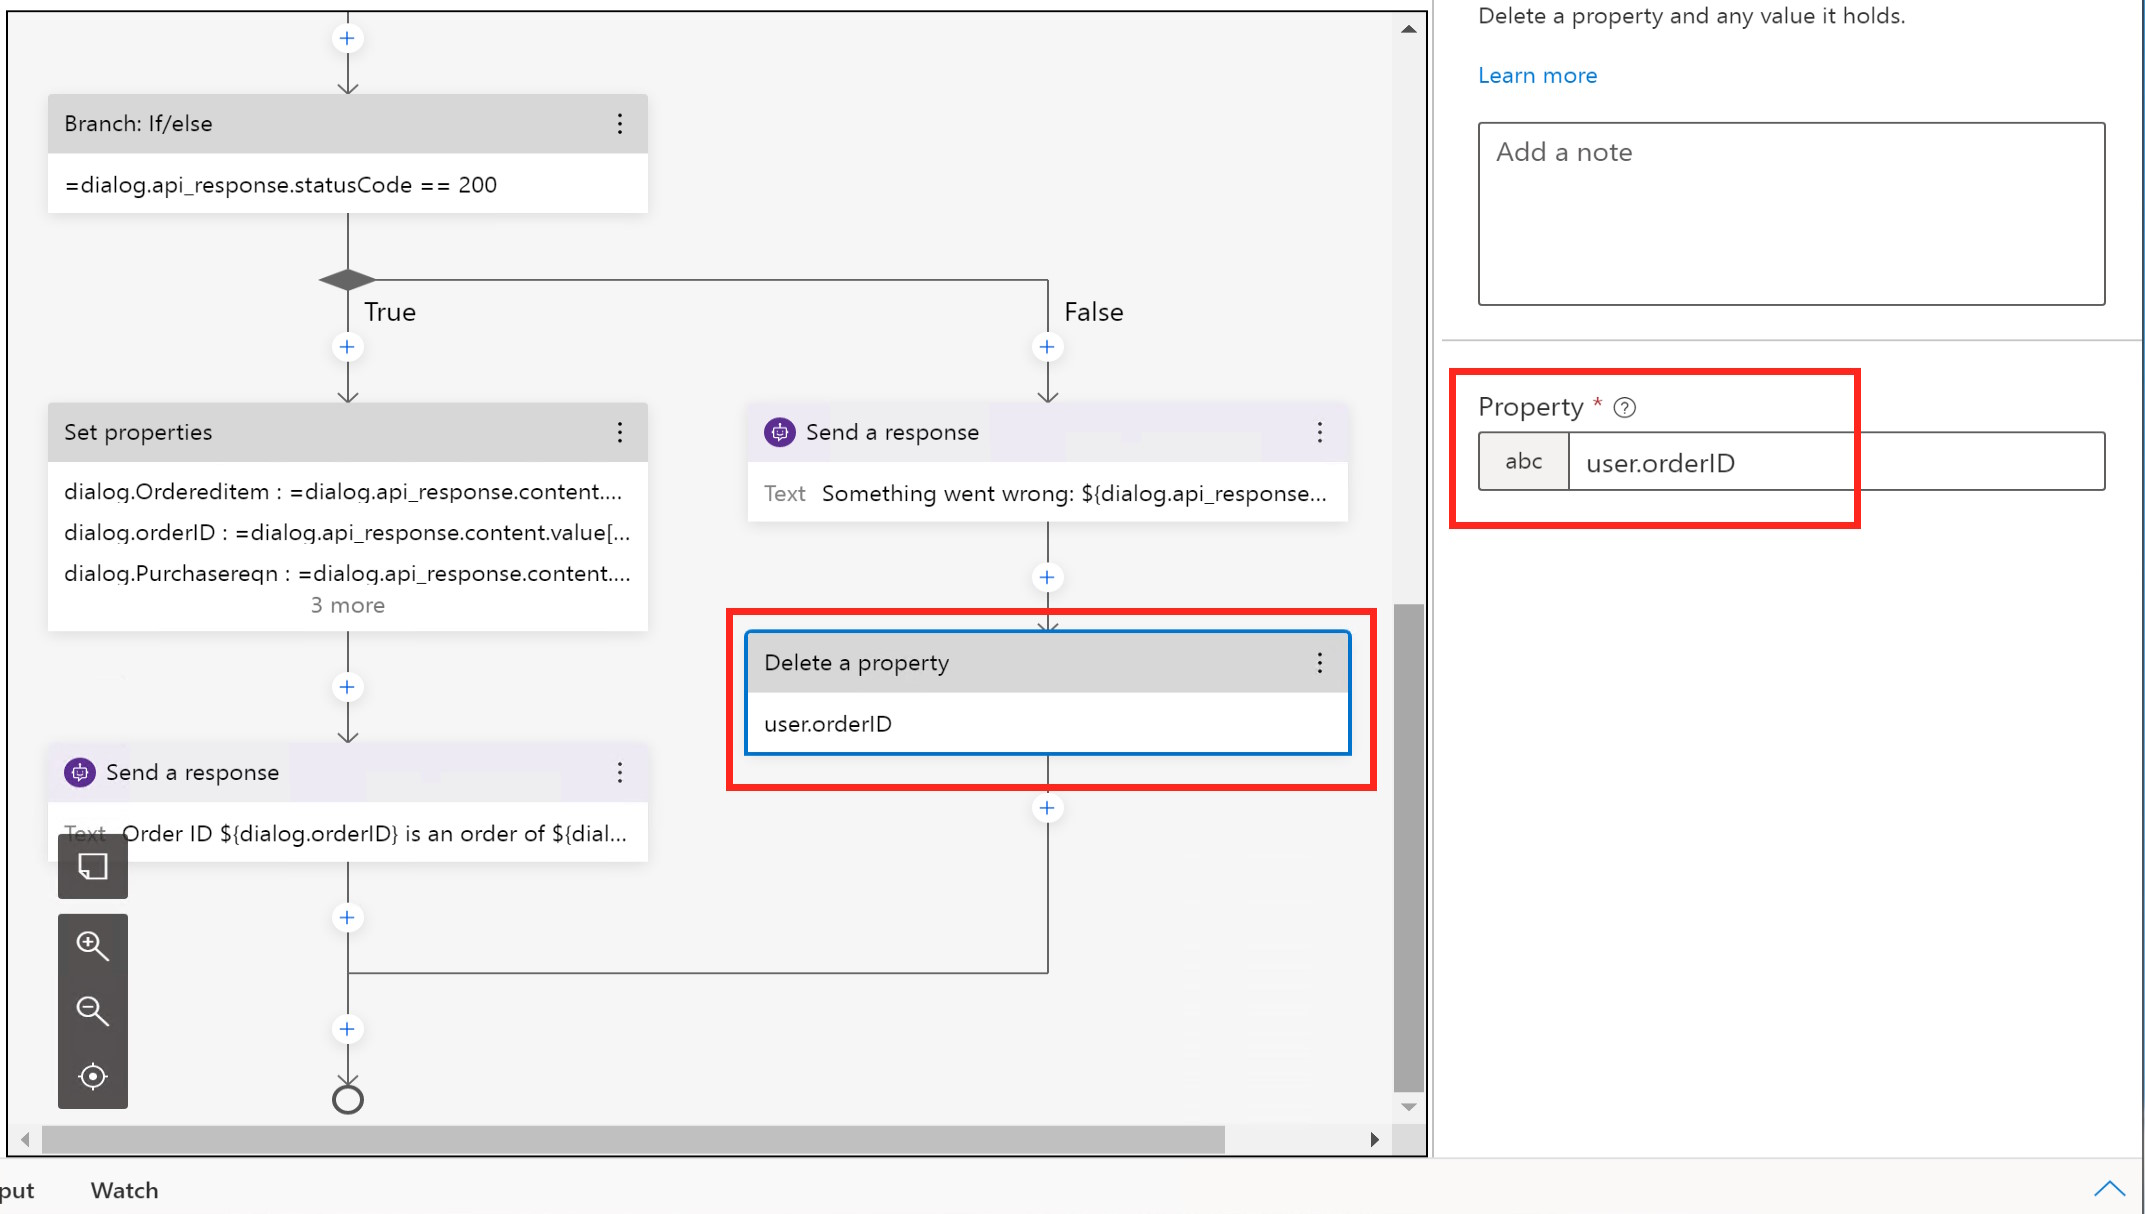
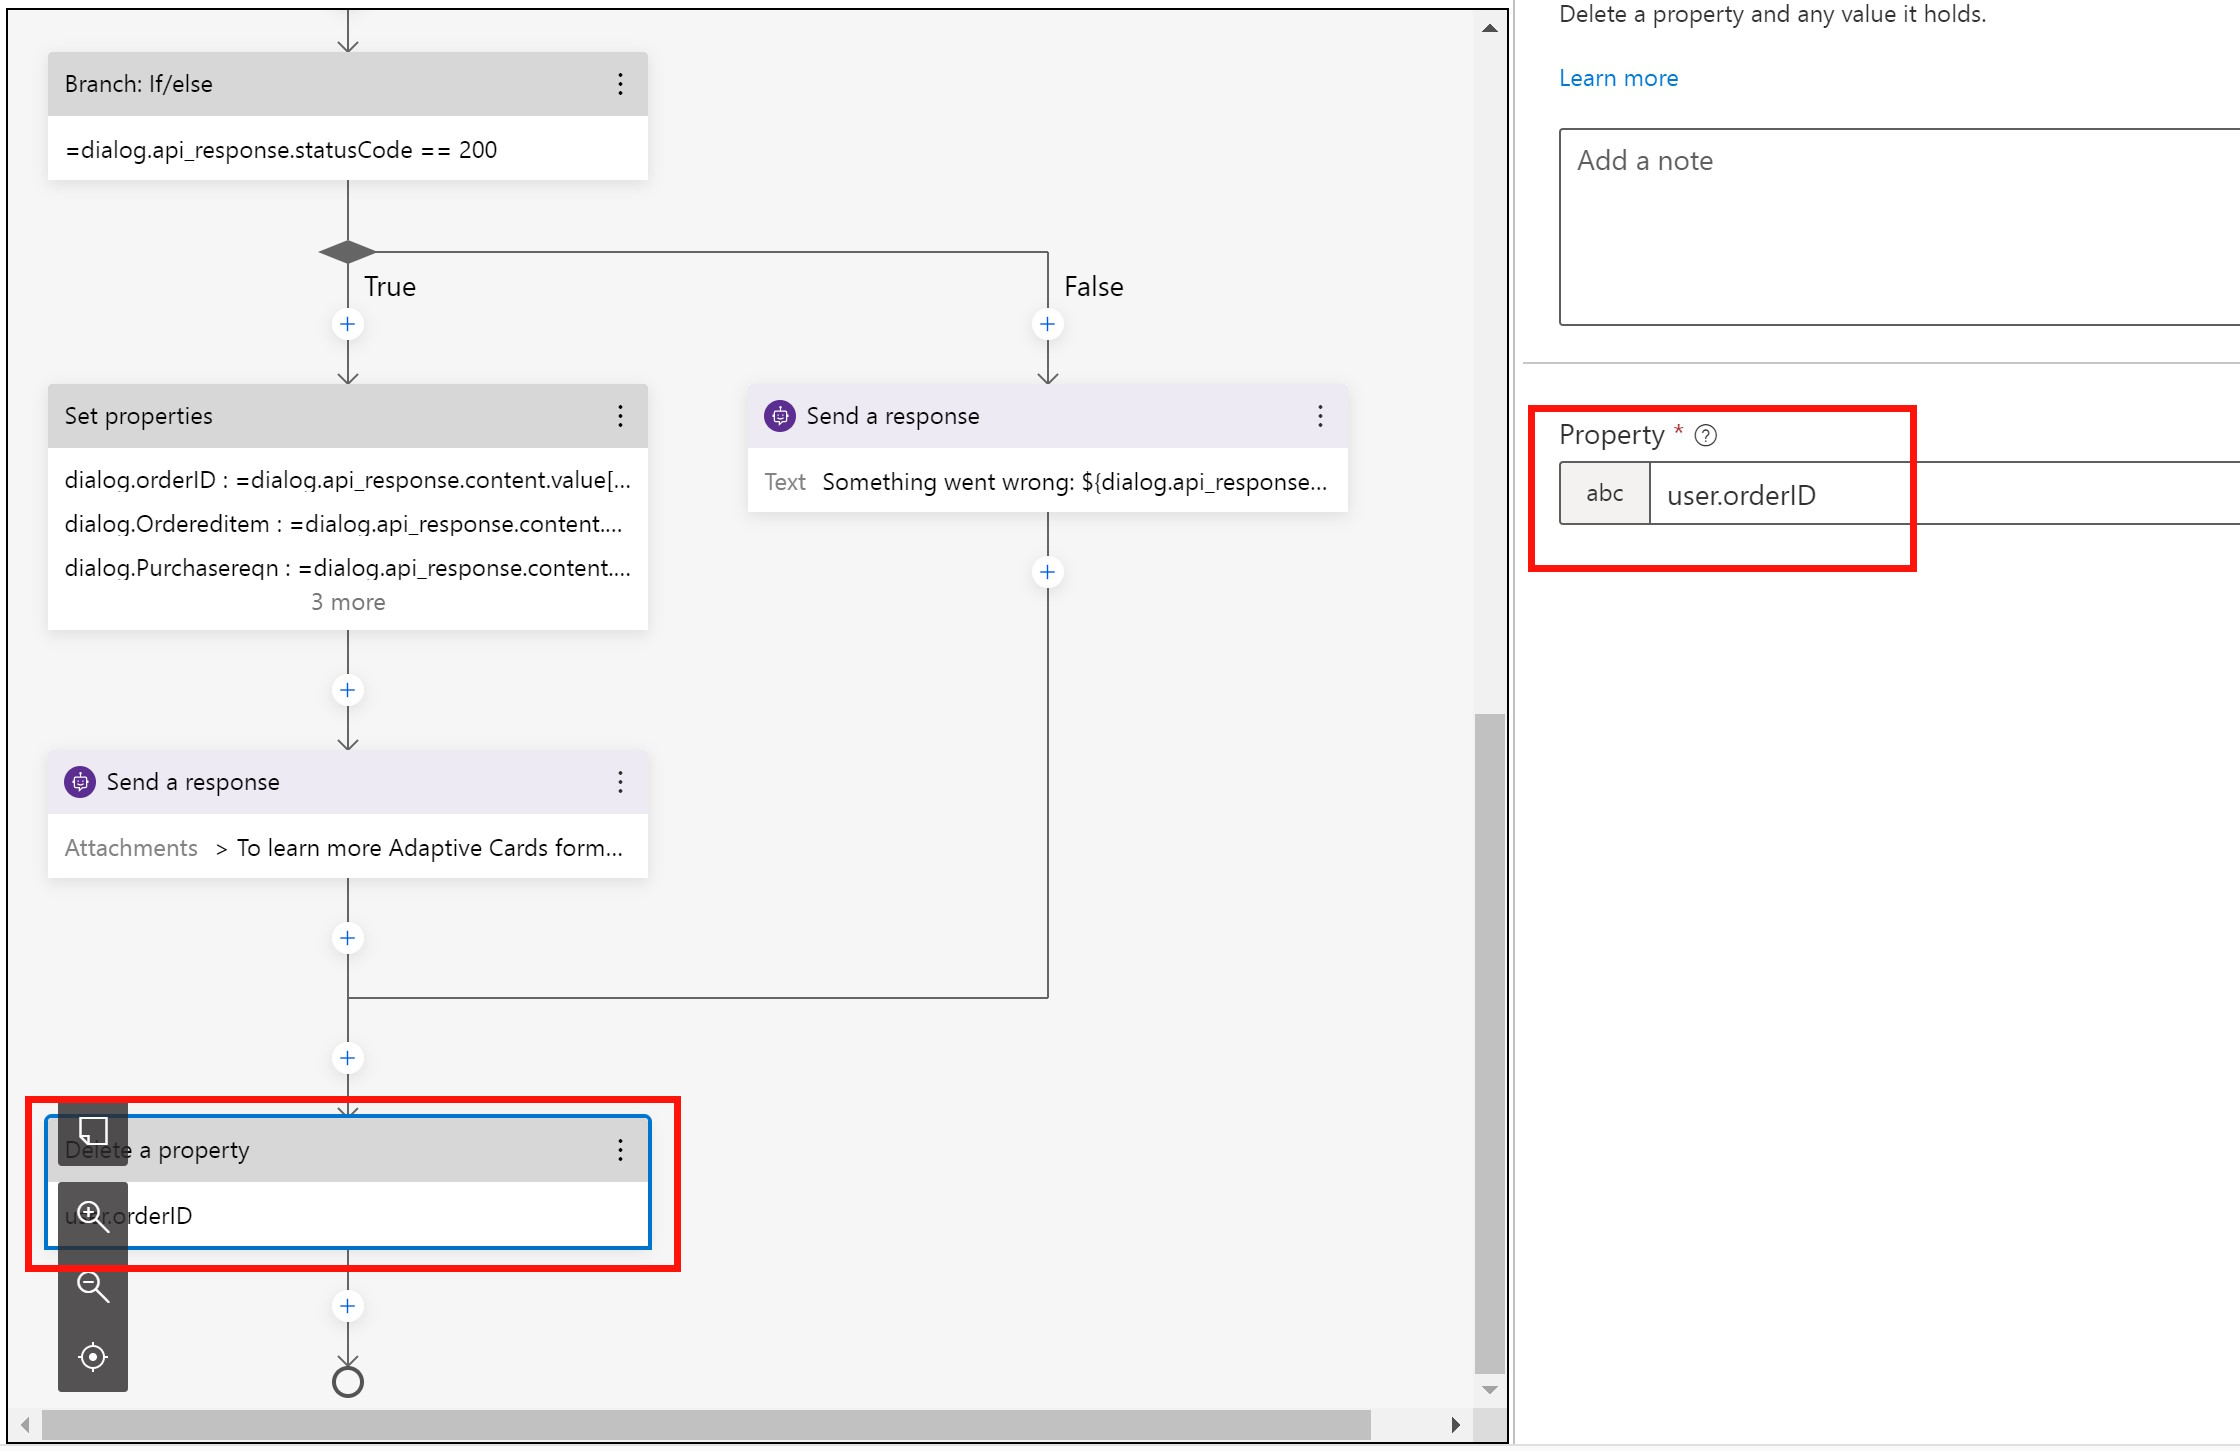
delete property

diff --git a/student/quest5.md b/student/quest5.md
@@ -361,7 +361,7 @@ Something went wrong: ${dialog.api_response.content.message}.
 <img alt="Error response" src="../img/student/Quest5/SendError.jpg"  width="600">
 </p>
 
-15. In case of an error we will also clean-up the property to enable the user to enter another Order ID. In the **Fail branch**, under the **Send a response**, click on the **+**, select **Manage properties** and click on **Delete a property**
+15. In order to enable a second run we clean-up the property to enable the user to enter another Order ID. Under the **True/Fail branch**, under the **Send a response**, click on the **+**, select **Manage properties** and click on **Delete a property**
 
 <p align="center" width="100%">
 <img alt="Error response" src="../img/student/Quest5/DeleteProperty.jpg"  width="600">
